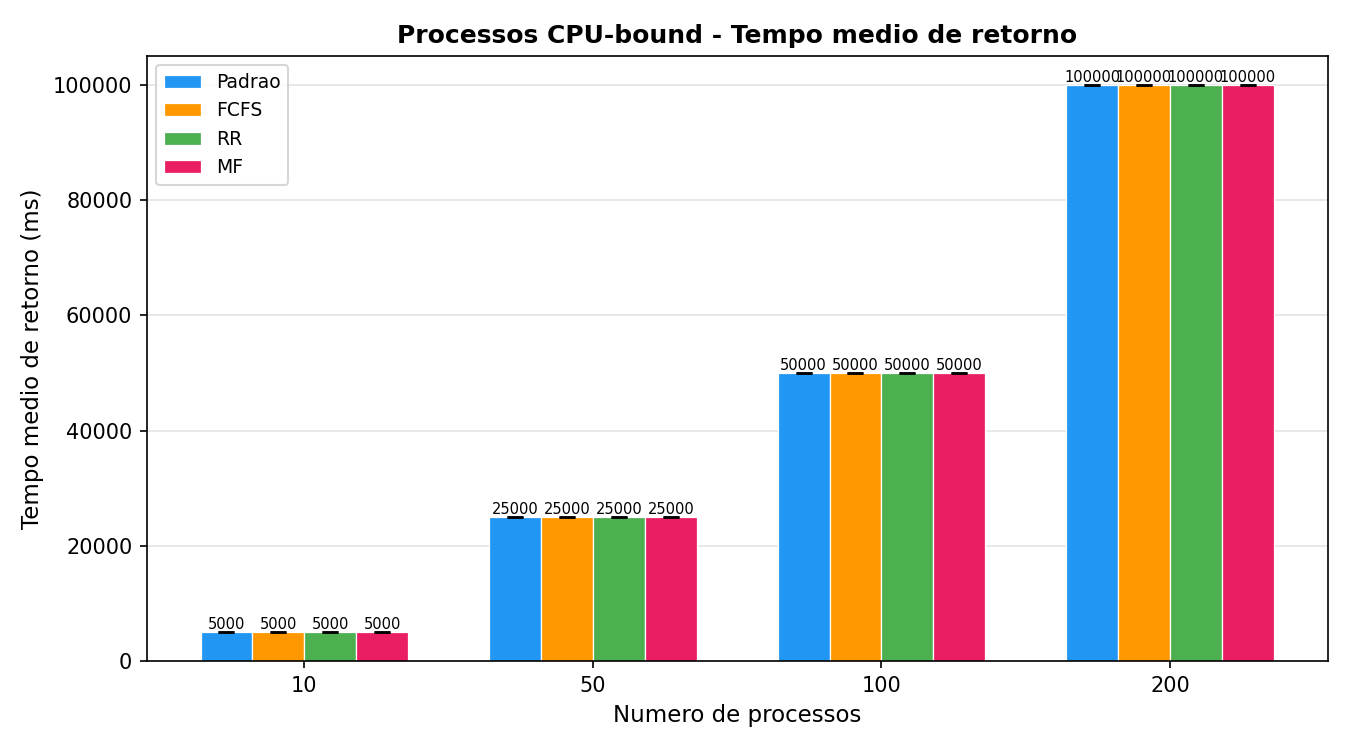
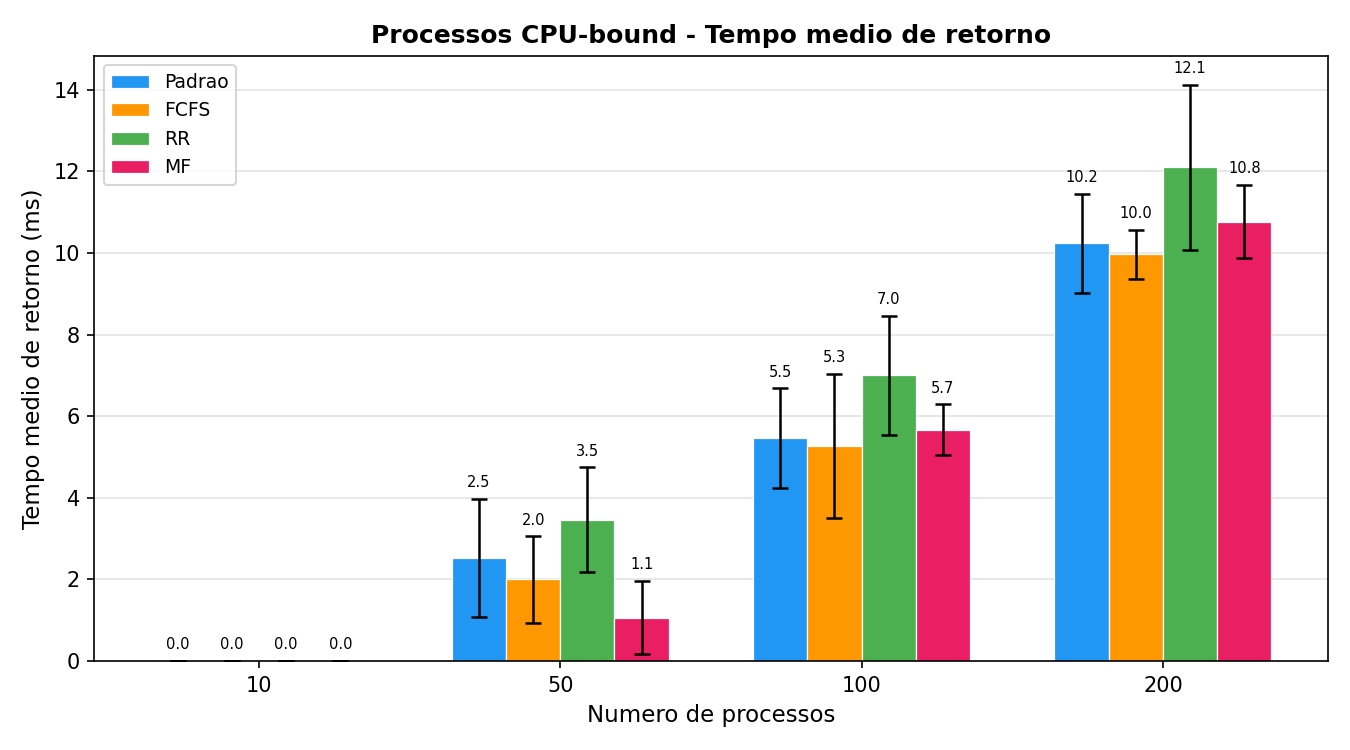
Refactor parsing logic and update result values in resumo_resultados.csv; enhance bar chart padding and error display

diff --git a/Resultados-GALATICO/analise.py b/Resultados-GALATICO/analise.py
@@ -40,14 +40,13 @@ def parse_file(path):
                 continue
             ptype = parts[0]
             try:
-                t1 = float(parts[1])
-                t2 = float(parts[2])
+                tempo = float(parts[2])
             except ValueError:
                 continue
             if ptype == 'CPU':
-                cpu_times.append(t1 * S2MS)
+                cpu_times.append(tempo * S2MS)
             elif ptype == 'IO':
-                io_times.append(t2 * S2MS)
+                io_times.append(tempo * S2MS)
     return cpu_times, io_times
 
 
@@ -102,6 +101,23 @@ OFFSETS = {'Padrao': -1.5, 'FCFS': -0.5, 'RR': 0.5, 'MF': 1.5}
 
 def bar_chart(mean_col, std_col, ylabel, title, filename):
     fig, ax = plt.subplots(figsize=(9, 5))
+
+    # Calculate maximum value + error to define a dynamic offset
+    max_val = 0
+    for sched in SCHED_ORDER:
+        sub = df[df['scheduler'] == sched].set_index('procs')
+        for p in PROC_COUNTS:
+            if p in sub.index:
+                val = sub.loc[p, mean_col]
+                err = sub.loc[p, std_col]
+                if not np.isnan(val):
+                    val_err = val + (err if not np.isnan(err) else 0)
+                    if val_err > max_val:
+                        max_val = val_err
+    
+    # Define a padding of 1.5% of the maximum value with a small minimum
+    padding = max(max_val * 0.015, 0.05) if mean_col == 'cpu_mean' else max(max_val * 0.015, 10.0)
+
     for sched in SCHED_ORDER:
         sub = df[df['scheduler'] == sched].set_index('procs')
         vals = [sub.loc[p, mean_col] if p in sub.index else np.nan for p in PROC_COUNTS]
@@ -111,11 +127,14 @@ def bar_chart(mean_col, std_col, ylabel, title, filename):
                       color=COLORS[sched], edgecolor='white', linewidth=0.6)
         ax.errorbar(xpos, vals, yerr=errs, fmt='none',
                     ecolor='black', elinewidth=1.2, capsize=4, capthick=1.2)
-        for bar, v in zip(bars, vals):
+        for bar, v, e in zip(bars, vals, errs):
             if not np.isnan(v):
+                err_val = e if not np.isnan(e) else 0
+                y_pos = v + err_val + padding
+                fmt = f'{v:.1f}' if mean_col == 'cpu_mean' else f'{v:.0f}'
                 ax.text(bar.get_x() + bar.get_width() / 2,
-                        bar.get_height() + max(errs) * 0.12 + 20,
-                        f'{v:.0f}', ha='center', va='bottom', fontsize=7)
+                        y_pos,
+                        fmt, ha='center', va='bottom', fontsize=7)
     ax.set_xticks(X)
     ax.set_xticklabels([str(p) for p in PROC_COUNTS])
     ax.set_xlabel('Numero de processos', fontsize=11)
